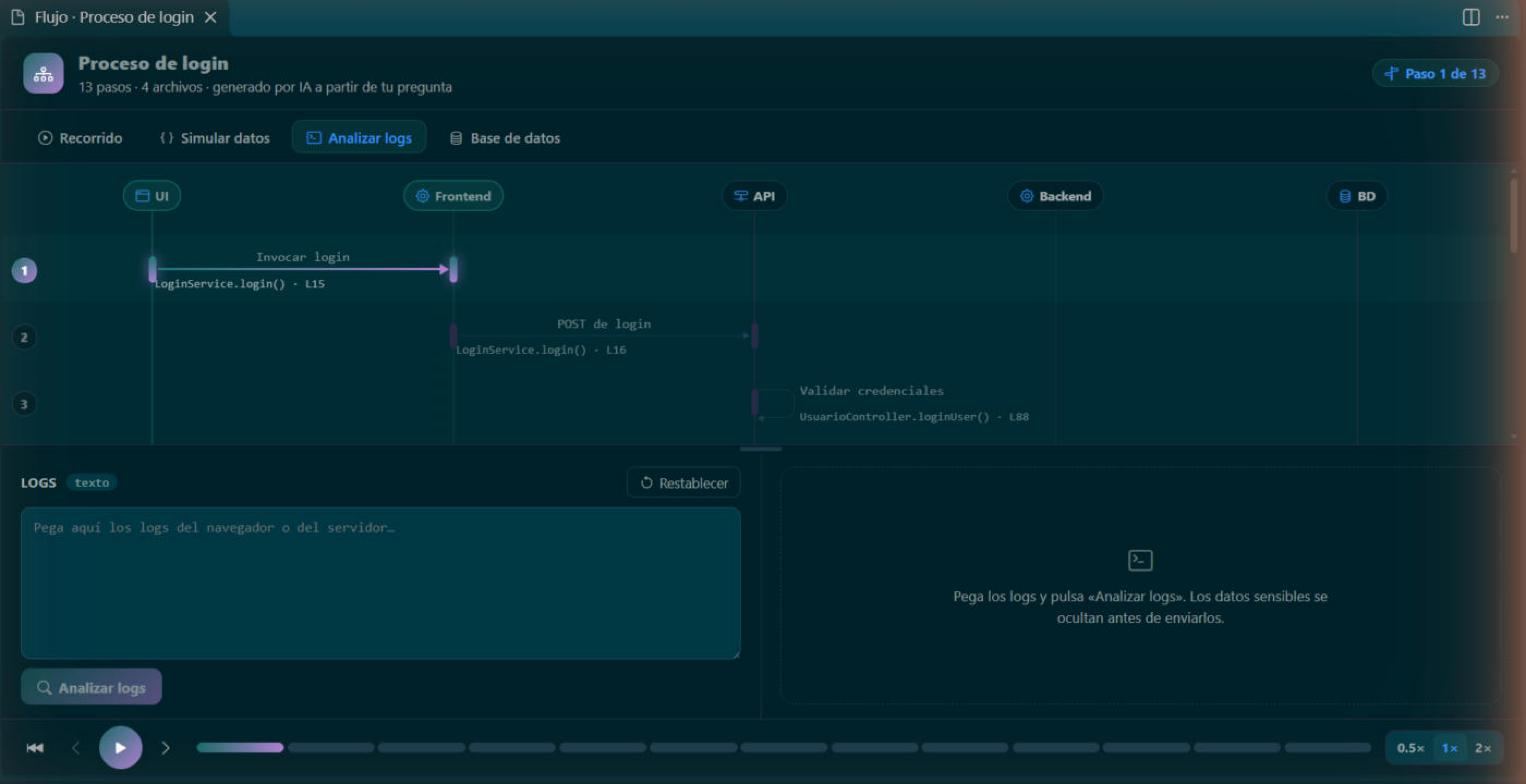
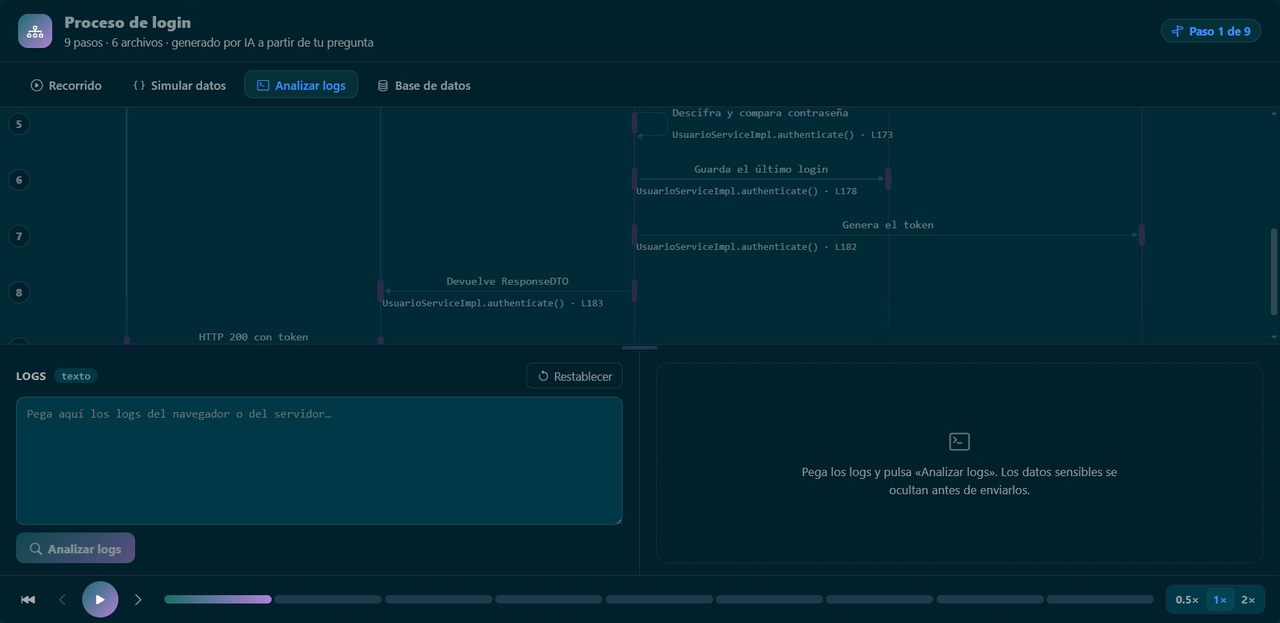
README: animaciones WebP fluidas a resolución completa
Grabación real de la ventana de VS Code a 15 fps (sin superposiciones)
montada como WebP animado en color completo, en lugar de GIF de pocos
fotogramas y 256 colores. Se eliminan los GIF anteriores.

diff --git a/README.md b/README.md
@@ -7,7 +7,7 @@
 </p>
 
 <p align="center">
-  <img src="https://raw.githubusercontent.com/Ftejero21/nexo-vscode/main/media/chat-nexo.gif" alt="@nexo genera el flujo del login desde el chat de VS Code" width="900">
+  <img src="https://raw.githubusercontent.com/Ftejero21/nexo-vscode/main/media/chat-nexo.webp" alt="@nexo genera el flujo del login desde el chat de VS Code" width="900">
 </p>
 
 ---
@@ -49,13 +49,13 @@ Todo funciona **sin servidor propio**: la IA es el modelo que tengas configurado
 
 ### ▶ Recorrido
 
-<p align="center"><img src="https://raw.githubusercontent.com/Ftejero21/nexo-vscode/main/media/recorrido.gif" alt="Recorrido animado del login de FreeSocial" width="900"></p>
+<p align="center"><img src="https://raw.githubusercontent.com/Ftejero21/nexo-vscode/main/media/recorrido.webp" alt="Recorrido animado del login de FreeSocial" width="900"></p>
 
 El flujo se reproduce paso a paso: quién llama a quién, con qué datos y en qué línea. Debajo ves el fragmento de código real del paso. Con **Abrir en el editor** saltas a esa línea. Puedes pausar, avanzar con ← y → o cambiar la velocidad (0,5× · 1× · 2×).
 
 ### 🧪 Simular datos
 
-<p align="center"><img src="https://raw.githubusercontent.com/Ftejero21/nexo-vscode/main/media/simular-datos.gif" alt="Simulación de contraseña incorrecta que falla en el paso 7" width="900"></p>
+<p align="center"><img src="https://raw.githubusercontent.com/Ftejero21/nexo-vscode/main/media/simular-datos.webp" alt="Simulación de contraseña incorrecta que falla en el paso 7" width="900"></p>
 
 Elige uno de los escenarios que propone la IA o edita el JSON de entrada y pulsa **Simular con estos datos**. El recorrido avanza hasta el paso donde el caso se detiene. La tarjeta de resultado explica:
 
@@ -68,7 +68,7 @@ En el ejemplo, una contraseña incorrecta en FreeSocial no termina en un aviso d
 
 ### 🖥 Vista de pantalla
 
-<p align="center"><img src="https://raw.githubusercontent.com/Ftejero21/nexo-vscode/main/media/vista-previa.gif" alt="Visualizar pantalla del componente de login, antes y con el cambio" width="900"></p>
+<p align="center"><img src="https://raw.githubusercontent.com/Ftejero21/nexo-vscode/main/media/vista-previa.webp" alt="Visualizar pantalla del componente de login, antes y con el cambio" width="900"></p>
 
 Desde el menú de cualquier paso (pasa el ratón por su número) elige **Visualizar pantalla**. Nexo reconstruye el componente real (plantilla y estilos) y marca lo que ve el usuario en ese escenario. Si hay un cambio propuesto, alterna entre **Ahora** y **Con el cambio**.
 
@@ -80,13 +80,13 @@ Pega los logs del navegador o del servidor y pulsa **Analizar logs**. Nexo cruza
 
 ### 🗄 Base de datos
 
-<p align="center"><img src="https://raw.githubusercontent.com/Ftejero21/nexo-vscode/main/media/base-de-datos.gif" alt="Mapa de datos: SELECT y UPDATE sobre la tabla usuario" width="900"></p>
+<p align="center"><img src="https://raw.githubusercontent.com/Ftejero21/nexo-vscode/main/media/base-de-datos.webp" alt="Mapa de datos: SELECT y UPDATE sobre la tabla usuario" width="900"></p>
 
 El diagrama de tablas se recorre al ritmo del flujo. En cada acceso ves la operación (`SELECT`, `UPDATE`…), las columnas y de dónde sale cada valor (`email ← usuarioDTO.email`). Sin conexión se deduce del código. Con una conexión configurada se usa **el esquema real**, del que solo se lee la metadata.
 
 ### 🔀 Simular cambios
 
-<p align="center"><img src="https://raw.githubusercontent.com/Ftejero21/nexo-vscode/main/media/simular-cambios.gif" alt="Simular antes y después de un cambio propuesto" width="900"></p>
+<p align="center"><img src="https://raw.githubusercontent.com/Ftejero21/nexo-vscode/main/media/simular-cambios.webp" alt="Simular antes y después de un cambio propuesto" width="900"></p>
 
 A la izquierda, el diff del cambio propuesto. A la derecha, **Simular cambios** ejecuta todos los escenarios antes y después y los clasifica en **arreglados**, **mejoran el aviso**, **sin cambios** y **regresiones**. **Simular antes y después** reproduce las dos versiones seguidas. **Aplicar** escribe el cambio en tus archivos solo cuando tú lo confirmas, y **Deshacer** lo revierte.
 
